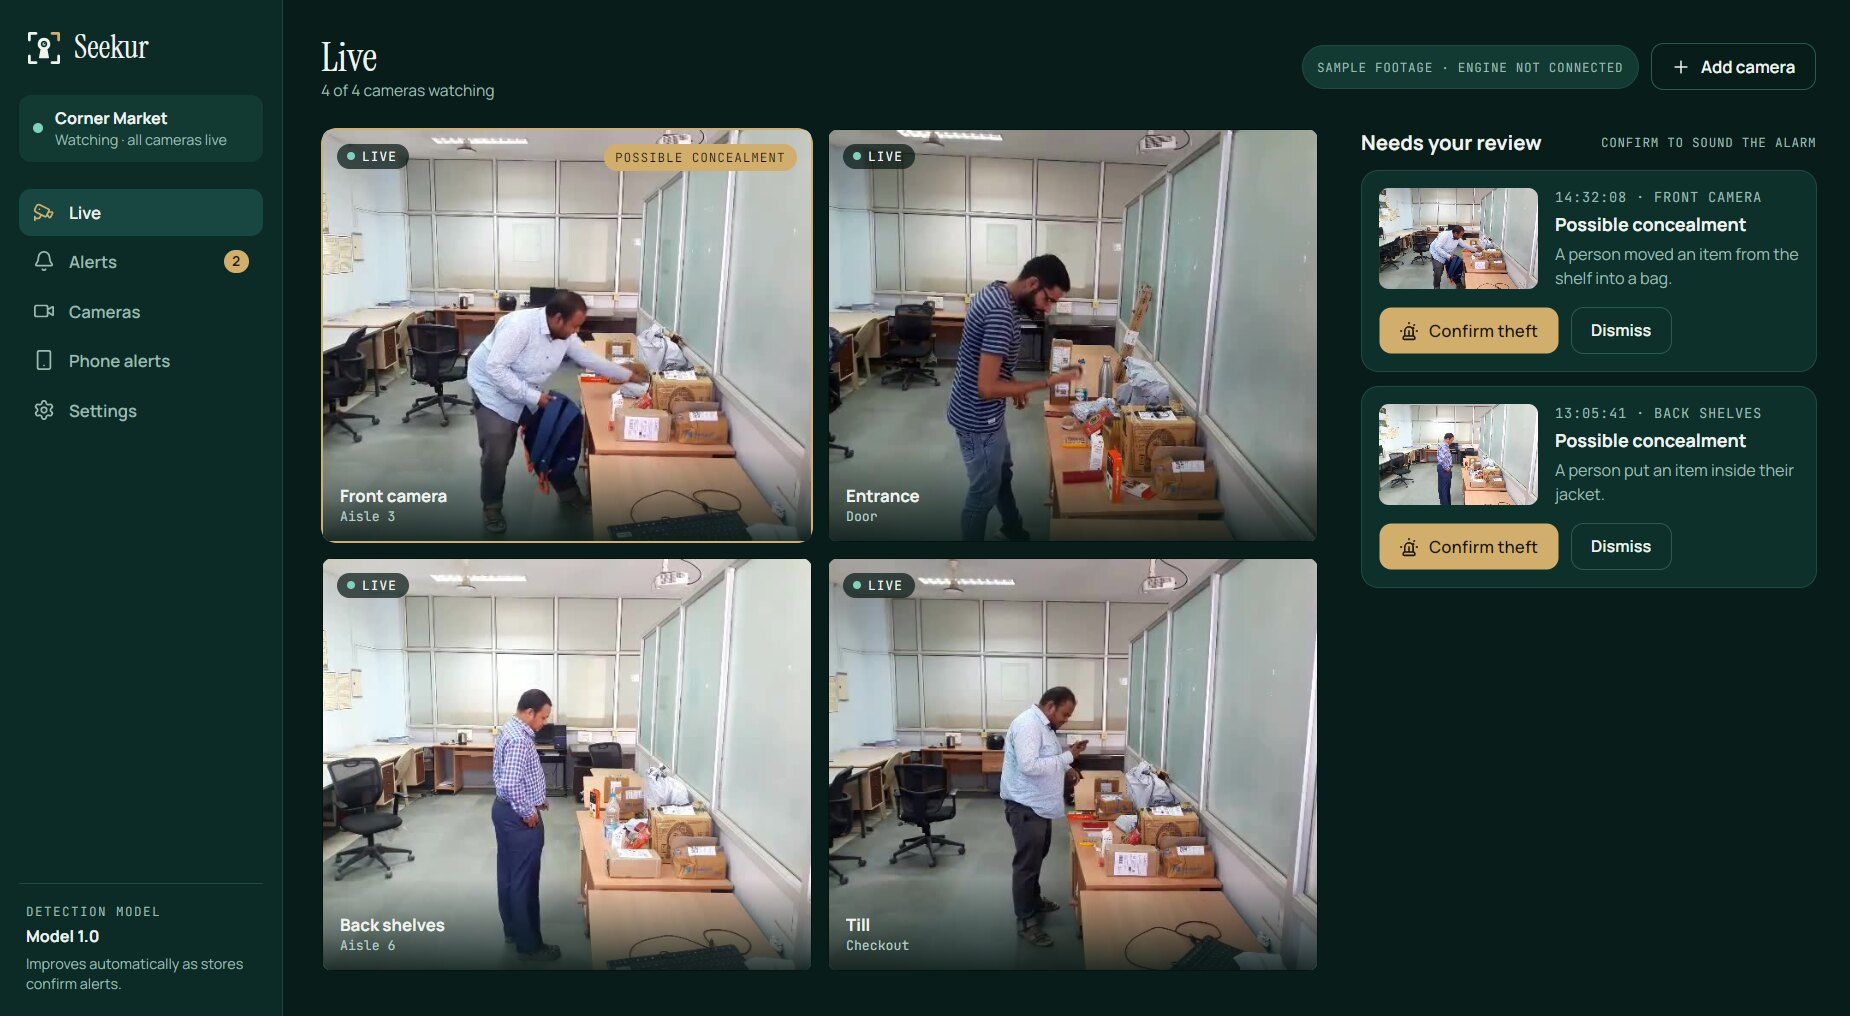
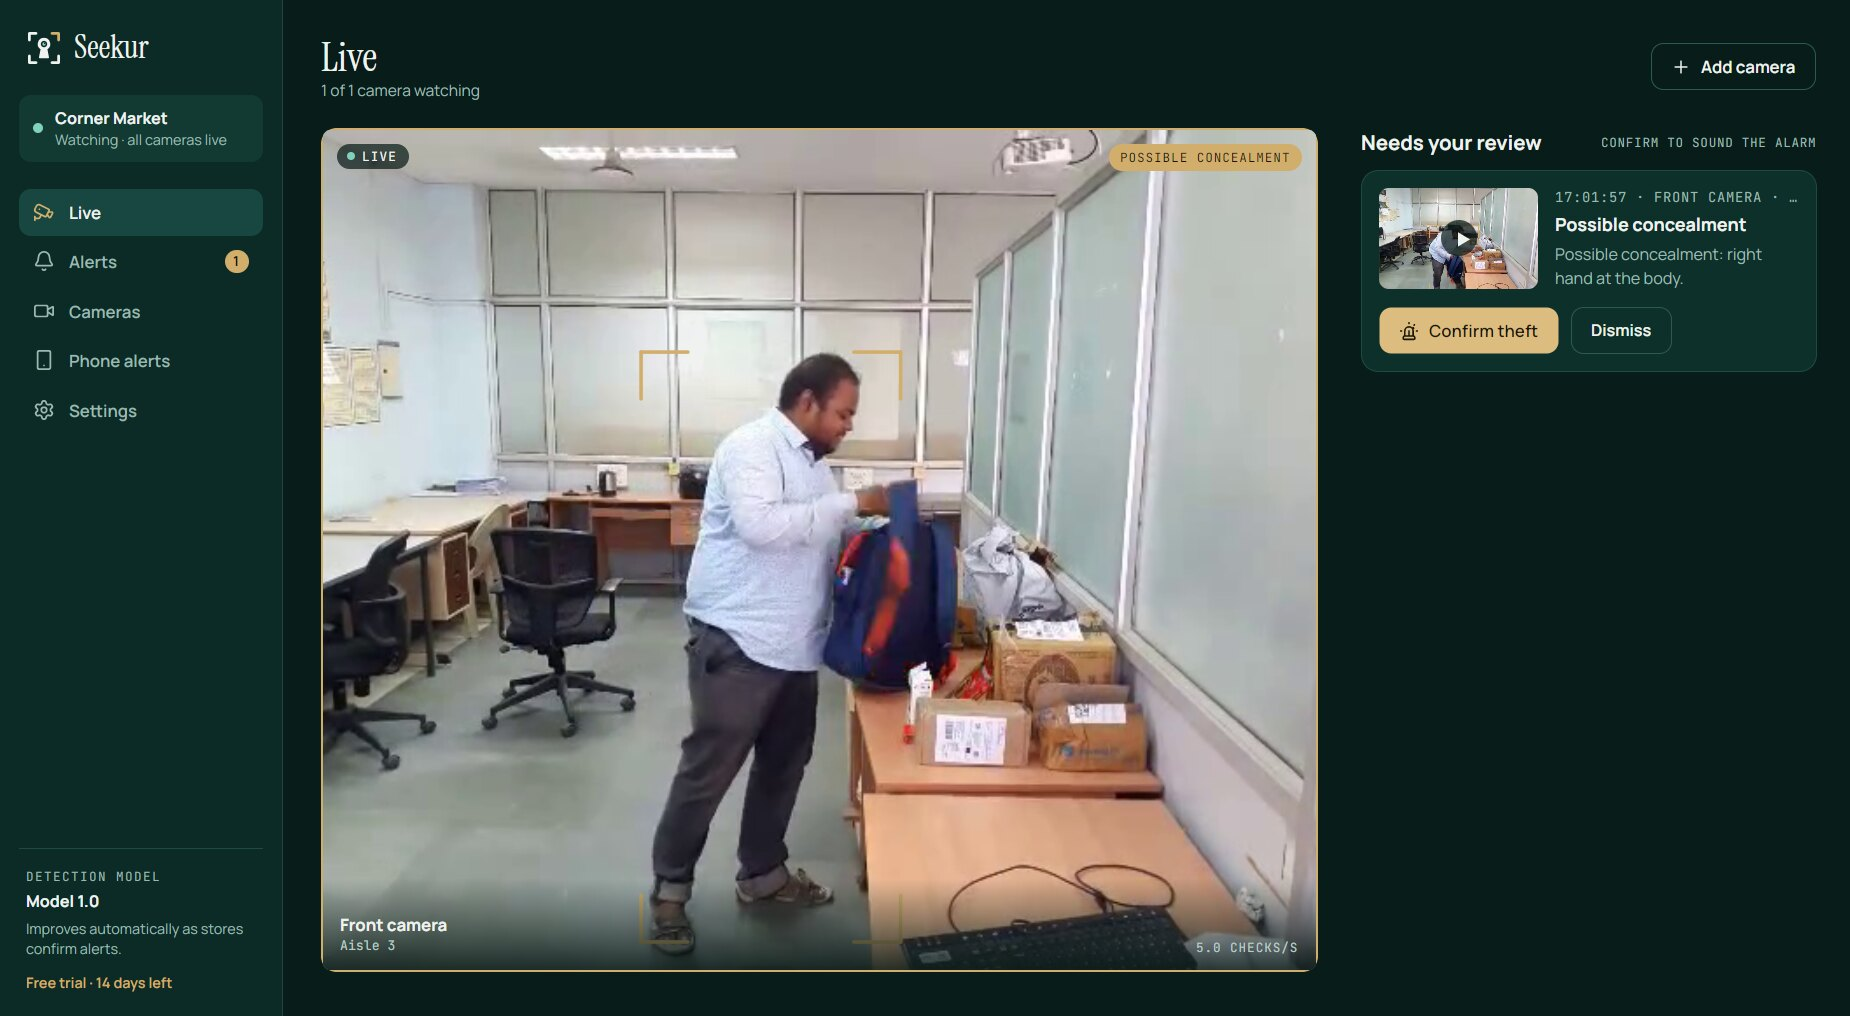
Website for v0.2.0-beta.1

diff --git a/index.html b/index.html
@@ -186,6 +186,10 @@ td{font-variant-numeric:tabular-nums}
 .os h3{font-size:20px}
 .os p{color:var(--text-sub);font-size:14.5px}
 .os .btn{justify-content:center;background:transparent;border-color:var(--line-2);color:var(--text-sub)}
+.os .btn.live{background:var(--brass);border-color:var(--brass);color:#1B1606}
+.os .btn.live:hover{background:#DDBC80}
+.first-run{font-size:13.5px;color:var(--text-sub)}
+.first-run code{font-family:var(--mono);font-size:12px;word-break:break-all;background:var(--bg);padding:2px 5px;border-radius:5px}
 .dl-note{margin-top:28px;color:var(--text-sub);font-size:15px;max-width:70ch}
 
 /* FAQ */
@@ -242,19 +246,19 @@ footer a{color:var(--on-green)}
   <div class="wrap">
     <p class="eyebrow">Theft detection for stores</p>
     <h1>Spot shoplifting <em>while it happens.</em></h1>
-    <p class="lede">Seekur watches the cameras you already have. When someone hides an item, the clip is on your phone in seconds. One tap confirms it and sounds the alarm.</p>
+    <p class="lede">Seekur watches the cameras you already have. When someone hides an item, a snapshot is on your phone in seconds. One tap confirms it and sounds the alarm.</p>
     <div class="ctas">
       <a class="btn btn-brass" href="#how">See how it works</a>
       <a class="btn btn-line" href="#accuracy">See the honest numbers</a>
     </div>
-    <p class="status"><i></i>NEW DESKTOP APP IN DEVELOPMENT · DOWNLOADS OPEN AT LAUNCH</p>
+    <p class="status"><i></i>FOR WINDOWS, MACOS AND LINUX · FREE 14-DAY TRIAL</p>
 
     <figure class="shot">
-      <figcaption>PREVIEW OF THE NEW APP · SAMPLE FOOTAGE</figcaption>
+      <figcaption>THE SEEKUR APP · DEMO VIDEO FROM A RESEARCH DATASET</figcaption>
       <div class="corners" aria-hidden="true"><span class="tl"></span><span class="tr"></span></div>
       <div class="frame">
         <div class="bar" aria-hidden="true"><b></b><b></b><b></b></div>
-        <img src="assets/app-live.jpg" width="1850" height="1016" alt="The Seekur app: four store cameras, one flagged for possible concealment, and two alerts waiting with Confirm theft and Dismiss buttons.">
+        <img src="assets/app-live.jpg" width="1850" height="1016" alt="The Seekur app watching a store camera: a person putting an item into a backpack is framed and flagged as possible concealment, with an alert waiting for Confirm theft or Dismiss.">
       </div>
     </figure>
   </div>
@@ -269,7 +273,7 @@ footer a{color:var(--on-green)}
     <div class="flow">
       <div class="step"><span class="n">01 · WATCH</span><h3>Watches every camera</h3><p>Seekur runs on a computer in your store and reads each camera's video, all day.</p></div>
       <div class="step"><span class="n">02 · SPOT</span><h3>Spots hidden items</h3><p>It follows body movement and bags, and flags a hand moving an item into a bag or clothing.</p></div>
-      <div class="step"><span class="n">03 · ALERT</span><h3>Sends you the clip</h3><p>The clip lands on your phone, or on whoever you chose. Nobody is accused automatically.</p></div>
+      <div class="step"><span class="n">03 · ALERT</span><h3>Tells your phone</h3><p>A snapshot with the person framed lands on your phone. The full clip waits in the app. Nobody is accused automatically.</p></div>
       <div class="step alarm"><span class="n">04 · ACT</span><h3>You confirm, the alarm sounds</h3><p>Confirm with one tap to sound the alarm in the store. Dismiss it and nothing happens.</p></div>
     </div>
 
@@ -280,8 +284,8 @@ footer a{color:var(--on-green)}
         <p class="lede" style="margin-top:18px">Alerts arrive through apps you can install for free in a minute. Seekur walks you through each one, step by step, and you can use more than one.</p>
         <div class="channels"><span>ntfy</span><span>Telegram</span><span>Email</span><span>Pushover</span><span>Discord</span></div>
         <ul class="points">
-          <li><svg aria-hidden="true"><use href="#i-check"/></svg><span><b>Clip included.</b> See what happened before you decide.</span></li>
-          <li><svg aria-hidden="true"><use href="#i-check"/></svg><span><b>Choose who gets what.</b> The owner, a manager, the person on the till.</span></li>
+          <li><svg aria-hidden="true"><use href="#i-check"/></svg><span><b>Snapshot included.</b> See who and where before you decide.</span></li>
+          <li><svg aria-hidden="true"><use href="#i-check"/></svg><span><b>Reach more than one person.</b> Several email addresses, a shared Telegram group or a staff Discord channel.</span></li>
           <li><svg aria-hidden="true"><use href="#i-check"/></svg><span><b>Alarm on confirm.</b> The store computer's speakers, or a siren on a smart plug.</span></li>
         </ul>
       </div>
@@ -378,7 +382,7 @@ footer a{color:var(--on-green)}
       <p class="eyebrow">Gets better over time</p>
       <h2>Every store makes every store safer.</h2>
       <p class="lede">When you confirm or dismiss an alert, that clip teaches Seekur what theft looks like, and what it doesn't. It learns from every Seekur store, not just yours.</p>
-      <p><span class="soon">Coming with the new app</span></p>
+      <p><span class="soon">Built in · the first improved model ships once enough stores have confirmed alerts</span></p>
     </div>
     <div class="loop">
       <div><span class="n">01</span><h3>You decide</h3><p>Confirm or dismiss an alert as usual. That's the only thing you do.</p></div>
@@ -396,40 +400,59 @@ footer a{color:var(--on-green)}
       <h2>Smart, without being creepy.</h2>
     </div>
     <div class="grid3">
-      <div class="card"><svg aria-hidden="true"><use href="#i-home"/></svg><h3>Video stays in your store</h3><p>Live video and recordings are analysed and kept on your own computer. Only the clips of alerts you confirm or dismiss are sent to the learning library.</p></div>
+      <div class="card"><svg aria-hidden="true"><use href="#i-home"/></svg><h3>Video stays in your store</h3><p>Live video and recordings are analysed and kept on your own computer. Only the clips of alerts you confirm or dismiss go to the learning library, and alert snapshots go to the phone apps you connect.</p></div>
       <div class="card"><svg aria-hidden="true"><use href="#i-scan"/></svg><h3>No face recognition</h3><p>Seekur reads body movement and bags, never faces. It doesn't know who anyone is, and doesn't try.</p></div>
       <div class="card"><svg aria-hidden="true"><use href="#i-confirm"/></svg><h3>A person decides</h3><p>Every alert is a "please check this". Nothing is escalated and no alarm sounds until someone confirms.</p></div>
     </div>
   </div>
 </section>
 
-<section id="download" class="tint">
+<section id="download" class="tint" data-release="v0.2.0-beta.1">
   <div class="wrap">
     <div class="sec-head">
       <p class="eyebrow">Download</p>
       <h2>A native app for every store computer.</h2>
-      <p class="lede">Built for speed on Windows, macOS and Linux. The new app is in development, and downloads open here at launch.</p>
+      <p class="lede" id="dl-lede">Built for speed on Windows, macOS and Linux. The new app is in development, and downloads open here at launch.</p>
     </div>
     <div class="dl">
       <div class="os">
         <div class="logo"><img src="assets/windows.svg" alt="Windows" width="56" height="56"></div>
         <div><h3>Windows</h3><p>Windows 10 and 11, 64-bit.</p></div>
-        <span class="btn" aria-disabled="true">Coming soon</span>
+        <a class="btn dl-btn" data-asset="Seekur-Setup.exe" aria-disabled="true">Coming soon</a>
+        <p class="first-run" hidden>The installer isn't code-signed yet, so Windows may say "Windows protected your PC". Click <b>More info</b>, then <b>Run anyway</b>.</p>
       </div>
       <div class="os">
         <div class="logo"><span class="macos">macOS</span></div>
-        <div><h3>macOS</h3><p>A native app for current versions of macOS.</p></div>
-        <span class="btn" aria-disabled="true">Coming soon</span>
+        <div><h3>macOS</h3><p>Apple silicon (M1 or newer), macOS 14 or later.</p></div>
+        <a class="btn dl-btn" data-asset="Seekur.dmg" aria-disabled="true">Coming soon</a>
+        <p class="first-run" hidden>Open the file and drag Seekur to Applications. The first time, right-click Seekur and choose <b>Open</b>, because it isn't notarised by Apple yet.</p>
       </div>
       <div class="os">
         <div class="logo"><img class="tux" src="assets/tux.svg" alt="Linux" width="57" height="66"></div>
-        <div><h3>Linux</h3><p>64-bit desktop Linux, such as Ubuntu.</p></div>
-        <span class="btn" aria-disabled="true">Coming soon</span>
+        <div><h3>Linux</h3><p>64-bit desktop Linux, such as Ubuntu 22.04 or newer.</p></div>
+        <a class="btn dl-btn" data-asset="seekur-linux.tar.gz" aria-disabled="true">Coming soon</a>
+        <p class="first-run" hidden>Or install with one command in a terminal: <code>curl -fsSL https://hassanali66.github.io/seekur-downloads/install.sh | bash</code></p>
       </div>
     </div>
     <p class="dl-note">You'll need a computer in the store that stays on, and IP cameras that can stream video over the network (RTSP), which almost all can.</p>
   </div>
 </section>
+<script>
+// The release script fills in data-release when a tested build is published; until then the buttons say "Coming soon".
+(function () {
+  var sec = document.getElementById("download"), tag = sec.getAttribute("data-release");
+  if (!tag) return;
+  var base = "https://github.com/HassanAli66/seekur-downloads/releases/download/" + tag + "/";
+  sec.querySelectorAll(".dl-btn").forEach(function (a) {
+    a.href = base + a.getAttribute("data-asset");
+    a.removeAttribute("aria-disabled");
+    a.classList.add("btn-brass", "live");
+    a.textContent = "Download " + a.getAttribute("data-asset").replace("seekur-linux.tar.gz", ".tar.gz").replace("Seekur-Setup", "").replace("Seekur", "");
+  });
+  sec.querySelectorAll(".first-run").forEach(function (p) { p.hidden = false; });
+  document.getElementById("dl-lede").textContent = "Seekur " + tag.replace(/^v/, "") + " for Windows, macOS and Linux. Every new store starts with a free trial.";
+})();
+</script>
 
 <section>
   <div class="wrap">
@@ -439,11 +462,12 @@ footer a{color:var(--on-green)}
     </div>
     <div class="faq">
       <details><summary>Will it catch every shoplifter?</summary><p>No camera system does. On staged footage, today's model caught about half of concealments, and 93% of its alerts were real. Each new model has to do better before it's released.</p></details>
-      <details><summary>Does video leave my store?</summary><p>Live video and recordings stay on your computer. Only clips of alerts you confirm or dismiss go to the Seekur learning library, which you agree to when you sign up. Alerts also go to the phones you choose.</p></details>
+      <details><summary>Does video leave my store?</summary><p>Live video and recordings stay on your computer. Only clips of alerts you confirm or dismiss go to the Seekur learning library, which you agree to when you sign up. Alert snapshots go to the phone apps you connect.</p></details>
       <details><summary>Do I need new cameras?</summary><p>Usually not. Any IP camera that can stream over RTSP works, and almost all of them can.</p></details>
       <details><summary>Do I need to install a Seekur app on my phone?</summary><p>No. Alerts come through apps like ntfy or Telegram, which are free. Seekur shows you how to connect each one.</p></details>
       <details><summary>What happens when Seekur gets better?</summary><p>Your app downloads the new model in the background and switches to it without a restart. You'll see which version is running in Settings.</p></details>
-      <details><summary>When can I download it?</summary><p>The new app is in development. Downloads will appear in the Download section above when it's ready.</p></details>
+      <details><summary>Is there a free trial?</summary><p>Yes. Every new store gets 14 days with everything switched on. After that, live view and recording keep working, and theft detection needs a subscription.</p></details>
+      <details><summary>What if the computer is slow?</summary><p>Seekur checks each camera five times a second. On a slow computer it does fewer checks and tells you so on that camera, because detection is less reliable then. Fewer cameras or a faster computer fix it.</p></details>
     </div>
   </div>
 </section>

diff --git a/THIRD_PARTY_NOTICES.md b/THIRD_PARTY_NOTICES.md
@@ -47,3 +47,15 @@ installed next to them (`ffmpeg\LICENSE.txt`).
 | Tux (`assets/tux.svg`) | Free to use with credit: Larry Ewing (lewing@isc.tamu.edu), made with The GIMP | https://commons.wikimedia.org/wiki/File:Tux.svg |
 | Lucide icons (inline) | ISC | https://lucide.dev |
 | Instrument Serif, Manrope, JetBrains Mono (Google Fonts) | SIL Open Font License 1.1 | https://fonts.google.com |
+
+### Desktop app: detection and runtime
+
+| Component | Licence | Source |
+|---|---|---|
+| ONNX Runtime | MIT | https://github.com/microsoft/onnxruntime |
+| YOLOX-s model (people, bags, items) | Apache-2.0 | https://github.com/Megvii-BaseDetection/YOLOX |
+| RTMPose-s model (body points) | Apache-2.0 | https://github.com/open-mmlab/mmpose |
+| BouncyCastle (licence signature check) | MIT | https://www.bouncycastle.org/csharp/ |
+| MailKit / MimeKit (email alerts) | MIT | https://github.com/jstedfast/MailKit |
+| FFmpeg, run as a separate program (ffmpeg, ffprobe) | LGPL-2.1-or-later | https://ffmpeg.org (Windows/Linux builds: https://github.com/BtbN/FFmpeg-Builds; macOS: built from source without GPL parts). Licence text installed in `ffmpeg/LICENSE.txt` |
+| Demo video (`Demo/demo-store.mp4`) | CC BY 4.0, Shoplifting Dataset (2022), MNNIT Allahabad | https://doi.org/10.17632/r3yjf35hzr.1 |
